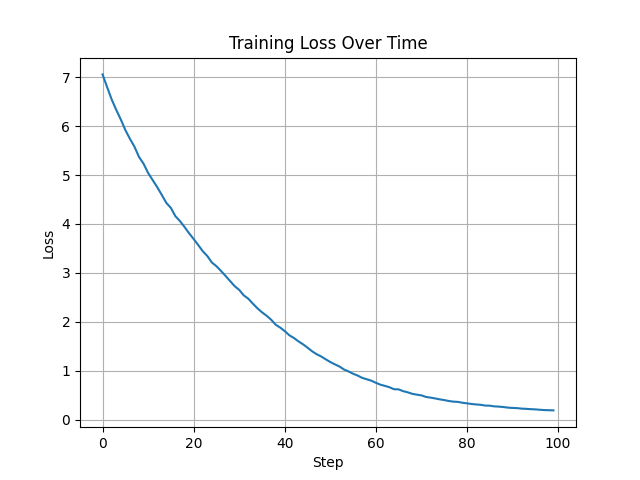
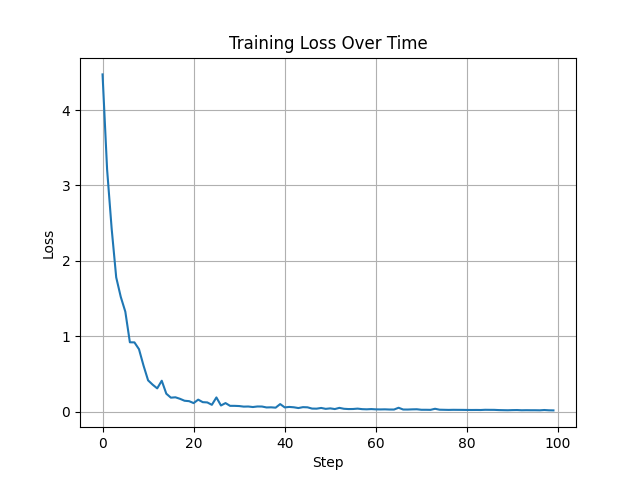
push

diff --git a/test_model.py b/test_model.py
@@ -74,7 +74,7 @@ for step in range(100):
         print(f"Step {step}, Loss: {total_loss:.4f}")
 
 
-"""  """
+""" """
 
 
 import torch
@@ -144,19 +144,16 @@ with torch.no_grad():
 
 
 import torch
-import torch.nn as nn
 import torch.optim as optim
 import matplotlib.pyplot as plt
 
 from model.transformer import GPT, GPTConfig
-from data.toy_data.toy_data import toy_data  # Comment if using real data
+from data.toy_data.toy_data import toy_data
 
-# === Settings ===
-USE_TOY_DATA = True  # Toggle between toy data and random data
+USE_TOY_DATA = True
 DEVICE = torch.device("cuda" if torch.cuda.is_available() else "cpu")
 
 
-# === Model Configuration ===
 def create_config(use_toy=True):
     if use_toy:
         return GPTConfig(
@@ -176,7 +173,6 @@ def create_config(use_toy=True):
         )
 
 
-# === Training Function ===
 def train_model(model, optimizer, config, use_toy=True, steps=100):
     model.train()
     all_losses = []
@@ -197,20 +193,54 @@ def train_model(model, optimizer, config, use_toy=True, steps=100):
         else:
             batch_size = 8
             seq_len = config.block_size
-            x = torch
+            x = torch.randint(0, config.vocab_size, (batch_size, seq_len)).to(DEVICE)
+            y = torch.randint(0, config.vocab_size, (batch_size, seq_len)).to(DEVICE)
 
-# Your imports, config functions, training, evaluation, plotting go here...
+            logits, loss = model(x, y)
+            optimizer.zero_grad()
+            loss.backward()
+            optimizer.step()
+            total_loss = loss.item()
+
+        all_losses.append(total_loss)
+        if step % 10 == 0:
+            print(f"Step {step}, Loss: {total_loss:.4f}")
+    return all_losses
+
+
+def evaluate_model(model, config, use_toy=True):
+    model.eval()
+    with torch.no_grad():
+        if use_toy:
+            test_input = torch.tensor(toy_data[0][:-1]).unsqueeze(0).to(DEVICE)
+        else:
+            test_input = torch.randint(0, config.vocab_size, (1, config.block_size)).to(DEVICE)
+
+        logits, _ = model(test_input)
+        prediction = torch.argmax(logits, dim=-1)
+
+        print("\nSample Prediction:")
+        print("Input:     ", test_input[0].tolist())
+        print("Predicted: ", prediction[0].tolist())
+
+
+def plot_losses(losses):
+    plt.plot(losses)
+    plt.xlabel("Step")
+    plt.ylabel("Loss")
+    plt.title("Training Loss Over Time")
+    plt.grid(True)
+    plt.savefig("loss_curve.png")
+
 
 def main():
     config = create_config(USE_TOY_DATA)
     model = GPT(config).to(DEVICE)
-    optimizer = torch.optim.AdamW(model.parameters(), lr=1e-3)
+    optimizer = optim.AdamW(model.parameters(), lr=1e-3)
 
     losses = train_model(model, optimizer, config, use_toy=USE_TOY_DATA)
     evaluate_model(model, config, use_toy=USE_TOY_DATA)
     plot_losses(losses)
 
-
 if __name__ == "__main__":
     main()
-
